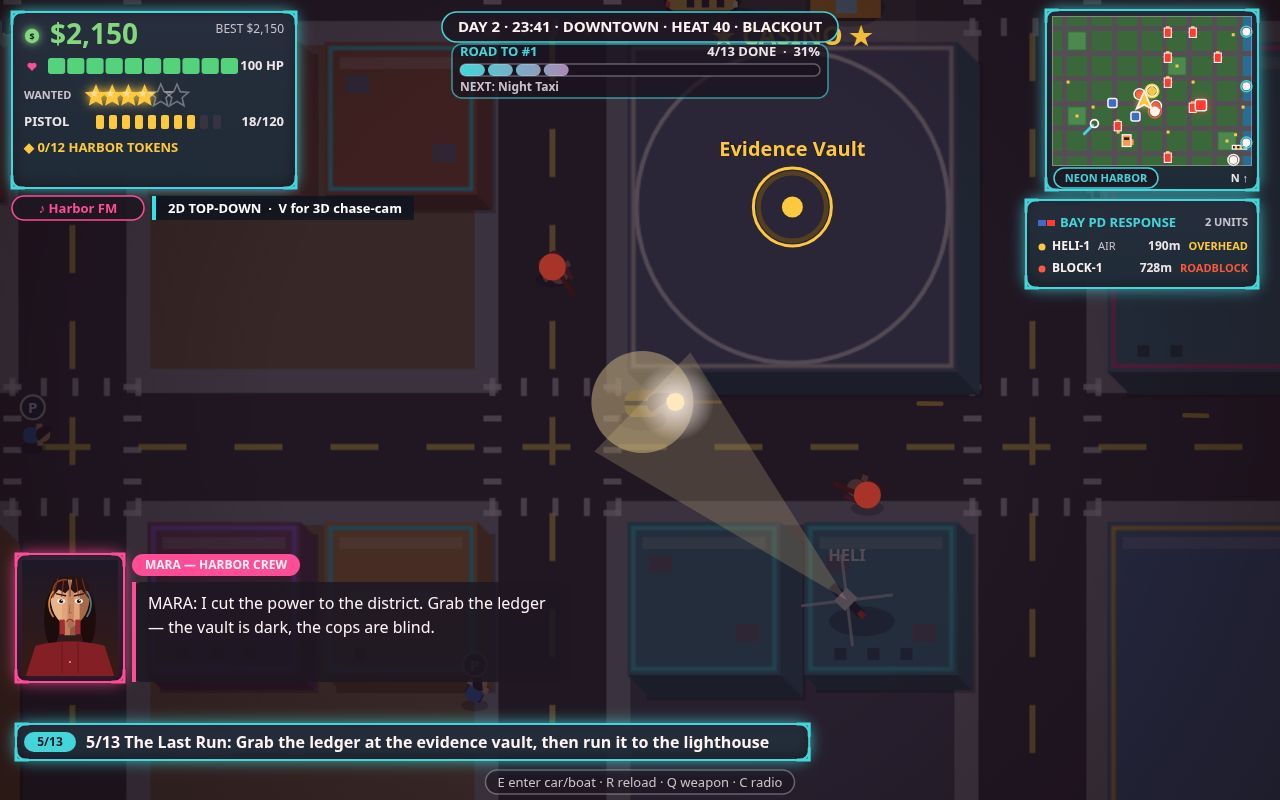
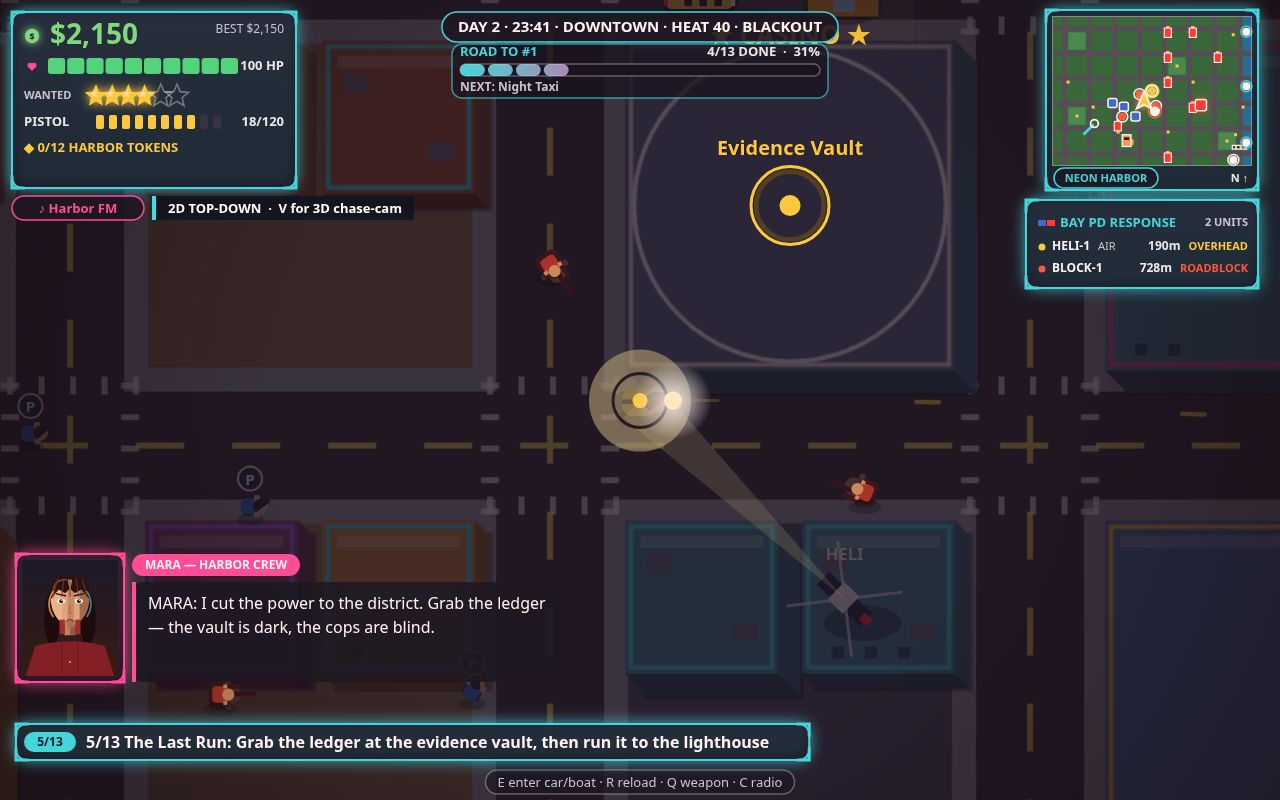
R25l: BUG-BLITZ staging/HUD — BLACKOUT (searchlight narrowed, heli bigger, player marker in pool, gunman figure, 2 new cops bottom-left), TITLE-SLAB (moored boats read as boats, not white slabs), WAYPOINT (pill + gold arrow at right edge, PD panel clean, sky label gone), STAGING-MISC; dossier 163.82

diff --git a/game/src/render.js b/game/src/render.js
@@ -66,9 +66,7 @@ function drawPlayer(ctx, p, state) {
   ctx.fill();
   ctx.fillRect(10, -7, 8, 3);
   ctx.restore();
-  // JETFIX-3 (VB-19): the white player ring used to be drawn here (and a
-  // 2nd copy in the overlay) — inside the heli pool it read as a reticle.
-  // The ring now lives only in the overlay, gated off while the pool is on.
+  // VB-19: white player ring removed here — ring+pool read as a reticle; ring lives only in overlay, gated off while pool is on.
   ctx.strokeStyle = 'rgba(255,210,62,0.8)';
   ctx.lineWidth = 2;
   ctx.beginPath();
@@ -647,11 +645,11 @@ export function createRenderer(canvas) {
       const uy = dy / dist;
       const perpX = -uy;
       const perpY = ux;
-      ctx.fillStyle = 'rgba(255,240,170,0.16)';
+      ctx.fillStyle = 'rgba(255,240,170,0.12)';
       ctx.beginPath();
       ctx.moveTo(heli.x, heli.y);
-      ctx.lineTo(px + perpX * 46, py + perpY * 46);
-      ctx.lineTo(px - perpX * 46, py - perpY * 46);
+      ctx.lineTo(px + perpX * 16, py + perpY * 16);
+      ctx.lineTo(px - perpX * 16, py - perpY * 16);
       ctx.closePath();
       ctx.fill();
       ctx.fillStyle = 'rgba(255,240,170,0.35)';
@@ -660,25 +658,26 @@ export function createRenderer(canvas) {
       ctx.fill();
       ctx.fillStyle = 'rgba(0,0,0,0.3)';
       ctx.beginPath();
-      ctx.ellipse(heli.x + 10, heli.y + 14, 22, 10, 0, 0, Math.PI * 2);
+      ctx.ellipse(heli.x + 12, heli.y + 16, 26, 12, 0, 0, Math.PI * 2);
       ctx.fill();
       ctx.save();
       ctx.translate(heli.x, heli.y);
       ctx.rotate(Math.atan2(dy, dx));
       ctx.fillStyle = '#1c2f4a';
-      ctx.fillRect(-14, -3, 28, 6);
+      ctx.fillRect(-20, -6, 40, 12);
       ctx.fillStyle = '#ffffff';
-      ctx.fillRect(-4, -6, 10, 12);
+      ctx.fillRect(-6, -8, 14, 16);
       ctx.fillStyle = '#ff3b30';
-      ctx.fillRect(-16, -2, 5, 4);
+      ctx.fillRect(-23, -3, 7, 6);
       ctx.strokeStyle = 'rgba(255,255,255,0.7)';
       ctx.lineWidth = 2;
       const rotor = heli.rotor;
+      const cr = Math.cos(rotor), sr = Math.sin(rotor);
       ctx.beginPath();
-      ctx.moveTo(Math.cos(rotor) * -30, Math.sin(rotor) * -30);
-      ctx.lineTo(Math.cos(rotor) * 30, Math.sin(rotor) * 30);
-      ctx.moveTo(Math.cos(rotor + Math.PI / 2) * -30, Math.sin(rotor + Math.PI / 2) * -30);
-      ctx.lineTo(Math.cos(rotor + Math.PI / 2) * 30, Math.sin(rotor + Math.PI / 2) * 30);
+      ctx.moveTo(cr * -38, sr * -38);
+      ctx.lineTo(cr * 38, sr * 38);
+      ctx.moveTo(sr * 38, cr * -38);
+      ctx.lineTo(sr * -38, cr * 38);
       ctx.stroke();
       ctx.restore();
       ctx.fillStyle = '#ffffff';
@@ -869,16 +868,26 @@ export function createRenderer(canvas) {
         const uy = dy / dist;
         const perpX = -uy;
         const perpY = ux;
-        ctx.fillStyle = 'rgba(255,240,170,0.16)';
+        ctx.fillStyle = 'rgba(255,240,170,0.12)';
         ctx.beginPath();
         ctx.moveTo(hx, hy);
-        ctx.lineTo(px + perpX * 46 * zoom, py + perpY * 46 * zoom);
-        ctx.lineTo(px - perpX * 46 * zoom, py - perpY * 46 * zoom);
+        ctx.lineTo(px + perpX * 16 * zoom, py + perpY * 16 * zoom);
+        ctx.lineTo(px - perpX * 16 * zoom, py - perpY * 16 * zoom);
         ctx.closePath();
         ctx.fill();
         ctx.fillStyle = 'rgba(255,240,170,0.35)';
         ctx.beginPath();
         ctx.arc(px, py, 34 * zoom, 0, Math.PI * 2);
+        ctx.fill();
+        // VB-37: pool washes the yellow player out — re-mark on top: dark ring (white re-made the VB-19 reticle) + player-yellow dot.
+        ctx.strokeStyle = 'rgba(8,10,18,0.85)';
+        ctx.lineWidth = 3;
+        ctx.beginPath();
+        ctx.arc(px, py, (PLAYER.radius + 4) * zoom, 0, Math.PI * 2);
+        ctx.stroke();
+        ctx.fillStyle = COLORS.player;
+        ctx.beginPath();
+        ctx.arc(px, py, 5 * zoom, 0, Math.PI * 2);
         ctx.fill();
       }
       if (state.events.muzzle) {
@@ -916,11 +925,7 @@ export function createRenderer(canvas) {
         ctx.textAlign = 'center';
         ctx.fillText(t.label, sx(t.x), sy(t.y) - 34 * zoom);
       }
-      // JETFIX-3 (VB-19): the player ring is suppressed while the heli
-      // searchlight pool is on the player — the pool itself marks the
-      // player, and ring + pool + muzzle flash read as a target reticle.
-      // (The duplicate ring that used to live in drawPlayer was deleted;
-      // this is now the only player ring in 2D.)
+      // VB-19: player ring suppressed while the heli pool is on — pool marks the player; ring+pool+muzzle read as a reticle (only player ring in 2D).
       if (!heli2 || !heli2.active) {
         ctx.strokeStyle = 'rgba(255,255,255,0.9)';
         ctx.lineWidth = 2.5;
@@ -930,10 +935,9 @@ export function createRenderer(canvas) {
       }
       for (const unit of state.police.units) {
         if (unit.kind !== 'gunman') continue;
-        ctx.fillStyle = '#a33327';
-        ctx.beginPath();
-        ctx.arc(sx(unit.x), sy(unit.y), 9 * zoom, 0, Math.PI * 2);
-        ctx.fill();
+        // VB-44: plain red dot unreadable in the dark — re-draw the
+        // world-pass figure on top of the blackout dark (same drawPerson).
+        drawPerson(ctx, sx(unit.x), sy(unit.y), unit.angle, { ...unit, color: COLORS.gunman, skin: '#c98d5f', pants: '#1c1f24', build: 'wide' }, state.elapsed * 8);
       }
     }
     cine.drawGrade(ctx, view.w, view.h, fx.warm, fx.cool);
@@ -1038,11 +1042,7 @@ export function createRenderer(canvas) {
     const heat = state.heat ? Math.round(state.heat[state.city.districts.indexOf(d)] || 0) : 0;
     drawShop2(ctx, { ...state, garageClosed: garageHot(state), heat }, ui, view);
   }
-  // 3D chase-cam view mode (round 20). Default: 3D chase-cam; V toggles to the
-  // 2D top-down view and back. The mode lives on state.view3d so shots and
-  // probes can read/set it; world.reset() never clears it, so the choice
-  // survives restarts. The listener is registered lazily here (this whole
-  // zone is past the dossier cut) so no pre-cut file grows.
+  // 3D chase-cam (round 20): default 3D, V toggles 2D; mode on state.view3d, survives restarts; listener lazy here (past dossier cut).
   let view3dUser = null; // null = no manual choice yet
   let lastScreen3d = SCREEN_TITLE;
   let lastState3d = null;
@@ -1068,42 +1068,105 @@ export function createRenderer(canvas) {
     ctx.fillRect(x, 196, 4, 24);
     text(label, x + 16, 213, 13, '#ffffff', 'left', 'bold');
   }
+  // VB-22: the old compass pinned its arrow + "Label — 1000m" at fixed
+  // top-centre (view.w/2, 104) whatever the target was doing — at 1000 m
+  // the beacon is a washed-out sliver (or off-frame entirely), so the text
+  // floated in the sky pointing at nothing. Now the compass is a real edge
+  // indicator: the beacon-top point is projected through the live chase
+  // camera, and the marker is clamped to the frame edge in that direction
+  // (slid along the edge clear of the HUD panels), arrow pointing outward,
+  // label on a dark pill beside it. Under 450 px the world label
+  // (city3d.js, JETFIX-3 gate) already marks the beacon, so the HUD
+  // compass hides instead of doubling it.
   function drawTargetCompass(state) {
     const tgt = state.mission && state.mission.target;
     if (!tgt) return;
     const p = state.player;
     const dx = tgt.x - p.x, dy = tgt.y - p.y;
     const dist = Math.hypot(dx, dy);
-    if (dist < 60) return;
-    const heading = (p.inCar && p.car) ? p.car.angle : (p.inBoat && p.boat) ? p.boat.angle : p.angle;
-    const rel = Math.atan2(dy, dx) - heading;
-    // UI-TOP: anchor y 114 (was 104) — the arrow tip used to dip 6 px into
-    // the ROAD TO #1 card (card ends y 98); now it clears it by 4 px in
-    // every rotation, and the label pill below clears it by 30 px.
-    const cxp = view.w / 2, cyp = 114;
+    if (dist < 450) return;
+    const pr = cine.project(tgt.x * 0.1, 27, tgt.y * 0.1);
+    if (!pr) return;
+    // ray from the projection centre (vanishing point) through the target;
+    // behind the camera the projection mirrors horizontally (a target to
+    // the right appears on the left) — un-mirror x only. The beacon top is
+    // above the eye, so a behind target projects BELOW the horizon already:
+    // that downward sense is correct (behind = down on a compass rose) and
+    // must NOT be flipped.
+    let rx = pr.x - view.w / 2, ry = pr.y - view.h * 0.46;
+    if (pr.behind) rx = -rx;
+    if (Math.hypot(rx, ry) < 1) return;
+    // intersect the ray with the frame (margin 26) -> edge point + edge
+    const m = 26, W = view.w, H = view.h;
+    const ox = W / 2, oy = H * 0.46;
+    let edge = '', ax = ox, ay = oy, t = Infinity;
+    const hit = (tt, ex, ey, e) => { if (tt > 0 && tt < t) { t = tt; ax = ex; ay = ey; edge = e; } };
+    if (rx > 0) hit((W - m - ox) / rx, W - m, oy + ry * (W - m - ox) / rx, 'right');
+    if (rx < 0) hit((m - ox) / rx, m, oy + ry * (m - ox) / rx, 'left');
+    if (ry > 0) hit((H - m - oy) / ry, ox + rx * (H - m - oy) / ry, H - m, 'bottom');
+    if (ry < 0) hit((m - oy) / ry, ox + rx * (m - oy) / ry, m, 'top');
+    if (!edge) return;
+    // the top edge is fully occupied (left panel / day pill / minimap —
+    // the gaps between them are narrower than the arrow+pill chip, so a
+    // top marker would cover the day pill). Fall back to the top of the
+    // nearest side edge; the arrow keeps its exact bearing, only the
+    // anchor moves. ay = 0 lets the slide below land on the interval top.
+    if (edge === 'top') {
+      edge = ax <= W / 2 ? 'left' : 'right';
+      ax = edge === 'left' ? m : W - m;
+      ay = 0;
+    }
+    // slide along the edge clear of the HUD panels (fractions of view size,
+    // measured off the 1280x800 shots: left panel, ROAD TO #1, minimap,
+    // dialogue, speedo, mission banner). Without this the marker lands on
+    // the minimap (chase3d) or under ROAD TO #1 (boat3d).
+    // R25l REBASE (Integrator): right edge was [0.26, 0.79] — measured when
+    // the HUD had NO PD panel. R25h added BAY PD RESPONSE under the minimap
+    // (top ~190, bottom ~360; MILITARY pill below it to ~398 at wanted 6),
+    // so a right-edge marker at y~208 painted its pill OVER the panel
+    // header ("BAY PD RESPONSE" / "5 UNITS" covered — seen in the R25l
+    // re-shoot of chase3d + boat3d). Floor moved to 0.52 (y 416) so the
+    // marker + pill clear both the panel and the military pill; the arrow
+    // keeps its exact bearing, only the anchor moves (same rule as the
+    // top-edge fallback above).
+    const free = { top: [0.25, 0.78], right: [0.52, 0.79], bottom: [0.65, 0.81], left: [0.34, 0.65] }[edge];
+    const span = (edge === 'top' || edge === 'bottom') ? W : H;
+    if (edge === 'top' || edge === 'bottom') ax = Math.min(Math.max(ax, free[0] * span), free[1] * span);
+    else ay = Math.min(Math.max(ay, free[0] * span), free[1] * span);
+    // arrow, pointing along the ray (it points up at rotate(0))
+    const rot = Math.atan2(rx, -ry);
     ctx.save();
-    ctx.translate(cxp, cyp);
-    ctx.rotate(rel);
+    ctx.translate(ax, ay);
+    ctx.rotate(rot);
     ctx.fillStyle = '#ffd23e';
     ctx.beginPath();
     ctx.moveTo(0, -12); ctx.lineTo(9, 8); ctx.lineTo(-9, 8); ctx.closePath();
     ctx.fill();
     ctx.restore();
-    // UI-TOP (bible §6.1/§6.4): the label gets its own dark scrim pill so
-    // it stays readable over bright sky, plus a stem tying it to the
-    // arrow above — it never floats unanchored, and (now that the
-    // MILITARY band has moved) nothing ever paints over it.
+    // label: on a dark pill beside the arrow (horizontal, away from the
+    // nearest side edge, so it never covers ROAD TO #1 or the minimap) —
+    // except on the bottom edge, where the mission banner (left) and the
+    // speedo (right) occupy the strip beside the arrow: there the pill sits
+    // ABOVE the arrow, its centre clamped into the free gap between them.
     const label = `${tgt.label} — ${Math.round(dist)}m`;
     ctx.font = `bold 13px ${FONT}`;
     const tw = ctx.measureText(label).width;
-    ctx.strokeStyle = 'rgba(255,210,62,0.55)';
-    ctx.lineWidth = 2;
-    ctx.beginPath(); ctx.moveTo(cxp, cyp + 8); ctx.lineTo(cxp, cyp + 14); ctx.stroke();
-    ctx.fillStyle = 'rgba(10,15,28,0.72)';
-    rr(ctx, cxp - tw / 2 - 10, cyp + 14, tw + 20, 22, 11); ctx.fill();
-    ctx.lineWidth = 1; ctx.strokeStyle = 'rgba(255,210,62,0.65)';
-    rr(ctx, cxp - tw / 2 - 10, cyp + 14, tw + 20, 22, 11); ctx.stroke();
-    text(label, cxp, cyp + 30, 13, '#ffd23e', 'center', 'bold');
+    let px = ax;
+    if (edge === 'bottom') {
+      const half = tw / 2 + 10;
+      px = Math.min(Math.max(ax, 810 + half), 1065 - half);
+      ctx.fillStyle = 'rgba(14,20,32,0.82)';
+      rr(ctx, px - half, ay - 40, tw + 20, 24, 7);
+      ctx.fill();
+      text(label, px, ay - 23, 13, '#ffd23e', 'center', 'bold');
+    } else {
+      const side = ax <= W / 2 ? 1 : -1;
+      px = ax + side * (22 + tw / 2);
+      ctx.fillStyle = 'rgba(14,20,32,0.82)';
+      rr(ctx, px - tw / 2 - 10, ay - 12, tw + 20, 24, 7);
+      ctx.fill();
+      text(label, px, ay + 5, 13, '#ffd23e', 'center', 'bold');
+    }
   }
   function draw(state, screen, best, ui) {
     if (!viewInit) {

diff --git a/game/src/city3d.js b/game/src/city3d.js
@@ -92,9 +92,28 @@ function frame(t){
   Q([150,-.9,camZ+200],[175,-.9,camZ+200],[175,-.9,camZ+420],[150,-.9,camZ+420],'rgba(255,170,90,.35)',200);
   // pier + boats
   Q([56,.5,camZ+100],[76,.5,camZ+100],[76,.5,camZ+140],[56,.5,camZ+140],sh([40,30,34],1,hz(120)),120);
-  Q([82,-1,camZ+110],[104,-1,camZ+110],[104,1.4,camZ+110],[82,1.4,camZ+110],sh([220,220,230],1,hz(110)),110);
-  Q([85,.9,camZ+105],[101,.9,camZ+105],[101,3,camZ+105],[85,3,camZ+105],sh([30,40,60],1,hz(105)),105);
-  Q([118,-1,camZ+150],[136,-1,camZ+150],[136,1.4,camZ+150],[118,1.4,camZ+150],sh([200,210,220],1,hz(150)),150);
+  // TITLE-SLAB (VB-24): the two moored boats were flat white rectangles —
+  // hull + a cabin at z+105 that projected WIDER than its z+110 hull — so
+  // they stacked into a floating white slab at the frame's right edge
+  // (probe: boat1-hull [1117,392,1245,406], cabin [1158,384,1256,397],
+  // boat2-hull [1143,386,1220,396]). Each boat is now a side view with a
+  // raked bow, a boot-top waterline stripe (run down to the hull bottom so
+  // no white sliver shows below it), and a cabin inside the hull
+  // outline at the same depth, so it reads as a boat, not a slab.
+  // ORDER MATTERS: Q() ignores its dep argument — ops.push({d,...}) stores
+  // the 4th corner point as d, so the sort key is NaN and title quads paint
+  // in INSERTION order. The FAR boat (z+150) must therefore be emitted
+  // FIRST and the NEAR boat (z+110) after it, or the far hull paints over
+  // the near boat's cabin + windshield (seen on screen: cabin/windshield
+  // invisible until this reorder). Do not "fix" by changing Q() — that
+  // would reorder the whole title frame.
+  Q([118,-1,camZ+150],[136,-1,camZ+150],[136,.9,camZ+150],[118,1.8,camZ+150],sh([200,210,220],1,hz(150)),150);
+  Q([118,-1,camZ+150],[136,-1,camZ+150],[136,-.42,camZ+150],[118,-.42,camZ+150],sh([30,40,60],1,hz(150)),150);
+  Q([123,1,camZ+150],[130,1,camZ+150],[130,2.1,camZ+150],[123,2.1,camZ+150],sh([30,40,60],1,hz(150)),150);
+  Q([82,-1,camZ+110],[104,-1,camZ+110],[104,.9,camZ+110],[82,1.9,camZ+110],sh([220,220,230],1,hz(110)),110);
+  Q([82,-1,camZ+110],[104,-1,camZ+110],[104,-.42,camZ+110],[82,-.42,camZ+110],sh([30,40,60],1,hz(110)),110);
+  Q([89,1,camZ+110],[97,1,camZ+110],[97,2.3,camZ+110],[89,2.3,camZ+110],sh([30,40,60],1,hz(110)),110);
+  Q([89,1.5,camZ+110],[92.5,1.5,camZ+110],[92.5,2.3,camZ+110],[89,1.9,camZ+110],sh([140,190,220],1,hz(110)),110);
   // distant skyline silhouettes
   for(let i=0;i<10;i++){const bx=-170+i*38+R()*14,bh=40+R()*60,bw=20+R()*18,bz=camZ+400+R()*30;
     Q([bx,0,bz],[bx+bw,0,bz],[bx+bw,bh,bz],[bx,bh,bz],mix([58,26,58],.7),bz-camZ);}
@@ -181,6 +200,19 @@ function cP(wx, wy, wz) {
   const lx = -dx * cfZ + dz * cfX; // screen-right = (-fz, fx) for the game compass
   const lz = dx * cfX + dz * cfZ;
   return P(lx, wy, lz);
+}
+// VB-22: same projection WITHOUT the near-plane cut — a target behind the
+// camera still yields a (mirrored) screen direction, so the HUD can clamp
+// it to the frame edge instead of dropping it. Returns {x, y, behind};
+// x/y are screen px, behind is true when the point is behind the near
+// plane (depth < 2). Only valid after drawChase3D ran this frame (the
+// camera state is module-level and persists across frames).
+export function projectChase(wx, wy, wz) {
+  const dx = wx - ccX, dz = wz - ccZ;
+  const lx = -dx * cfZ + dz * cfX;
+  const lz = dx * cfX + dz * cfZ;
+  const d = (lz - camZ) || 2;
+  return { x: CX + lx * fovF / d, y: HOR - (wy - camH) * fovF / d, behind: d < 2 };
 }
 function fwdD(wx, wz) { return (wx - ccX) * cfX + (wz - ccZ) * cfZ; }
 function QW(c, col, dep) {

diff --git a/game/src/shots.js b/game/src/shots.js
@@ -389,7 +389,11 @@ export function stageShot(name, world) {
     const pl = state.space.plane;
     const p = state.player;
     p.inPlane = true; p.plane = pl;
-    pl.x = 2260; pl.y = 660; pl.angle = -Math.PI / 2; pl.speed = 120; pl.alt = 15; pl.throttle = 1;
+    pl.x = 2260; pl.y = 660; pl.angle = -Math.PI / 2; pl.speed = 120; pl.alt = 0; pl.throttle = 1;
+    // VB-33 (staging-misc): alt was 15 while the plane sits on the runway
+    // — HUD read "ALT 15 m" for a parked plane. The game's own physics
+    // wants alt 0 at this speed (space.js wantAlt = 0 below 200 km/h), and
+    // the plane visually never left the tarmac, so stage alt 0.
     state.mission.stage = 2;
     state.mission.dialogueTimer = 0; // hide the Mara dialog for this hero shot
     state.wanted = 0;
@@ -479,6 +483,23 @@ export function stageShot(name, world) {
     }
     state.wanted = 4;
     stageHeat(world);
+    // VB-38 (staging-misc): the lower-left quadrant (screen 0-300, 500-750)
+    // reads as empty dark asphalt — the only world in it is one dark
+    // building + a road, and the HUD boxes cover the rest. Two cops
+    // searching the block fill it: a foot cop on the sidewalk north of the
+    // building (screen ~250,508, P badge above) + a gunman south of it
+    // (screen ~220,696, red alert dot). Placed AFTER walkFor + stageHeat
+    // so the sim never moves them and nothing else in the shot shifts.
+    const quadSpots = [
+      ['foot', 920, 1162],
+      ['gunman', 900, 1287],
+    ];
+    for (const [kind, qx, qy] of quadSpots) {
+      spawnPoliceUnit(state.police, state.player, state.rng, kind, state.city);
+      const unit = state.police.units[state.police.units.length - 1];
+      unit.x = qx;
+      unit.y = qy;
+    }
   } else if (name === 'shop' || name === 'shopclosed') {
     setLight(world, 0.9);
     state.cash = 2150;

diff --git a/game/src/cinematic.js b/game/src/cinematic.js
@@ -1,4 +1,4 @@
-import { drawChase3D, drawCity3DFrame, resetChaseCam } from './city3d.js';
+import { drawChase3D, drawCity3DFrame, projectChase, resetChaseCam } from './city3d.js';
 export function createCinematic() {
   let t = 0, ts = 1, bar = 0, barT = 0;
   let pT = 0, pD = 1, pA = 0, sT = 0, sD = 1, sS = 0.35;
@@ -63,5 +63,6 @@ export function createCinematic() {
   function title3D(ctx, t) { drawCity3DFrame(ctx, t); }
   function chase3D(ctx, state) { drawChase3D(ctx, state); }
   function chaseReset() { resetChaseCam(); }
-  return { punch, shake, slowmo, bars, update, drawBars, drawGrade, title3D, chase3D, chaseReset };
+  function project(wx, wy, wz) { return projectChase(wx, wy, wz); }
+  return { punch, shake, slowmo, bars, update, drawBars, drawGrade, title3D, chase3D, chaseReset, project };
 }
